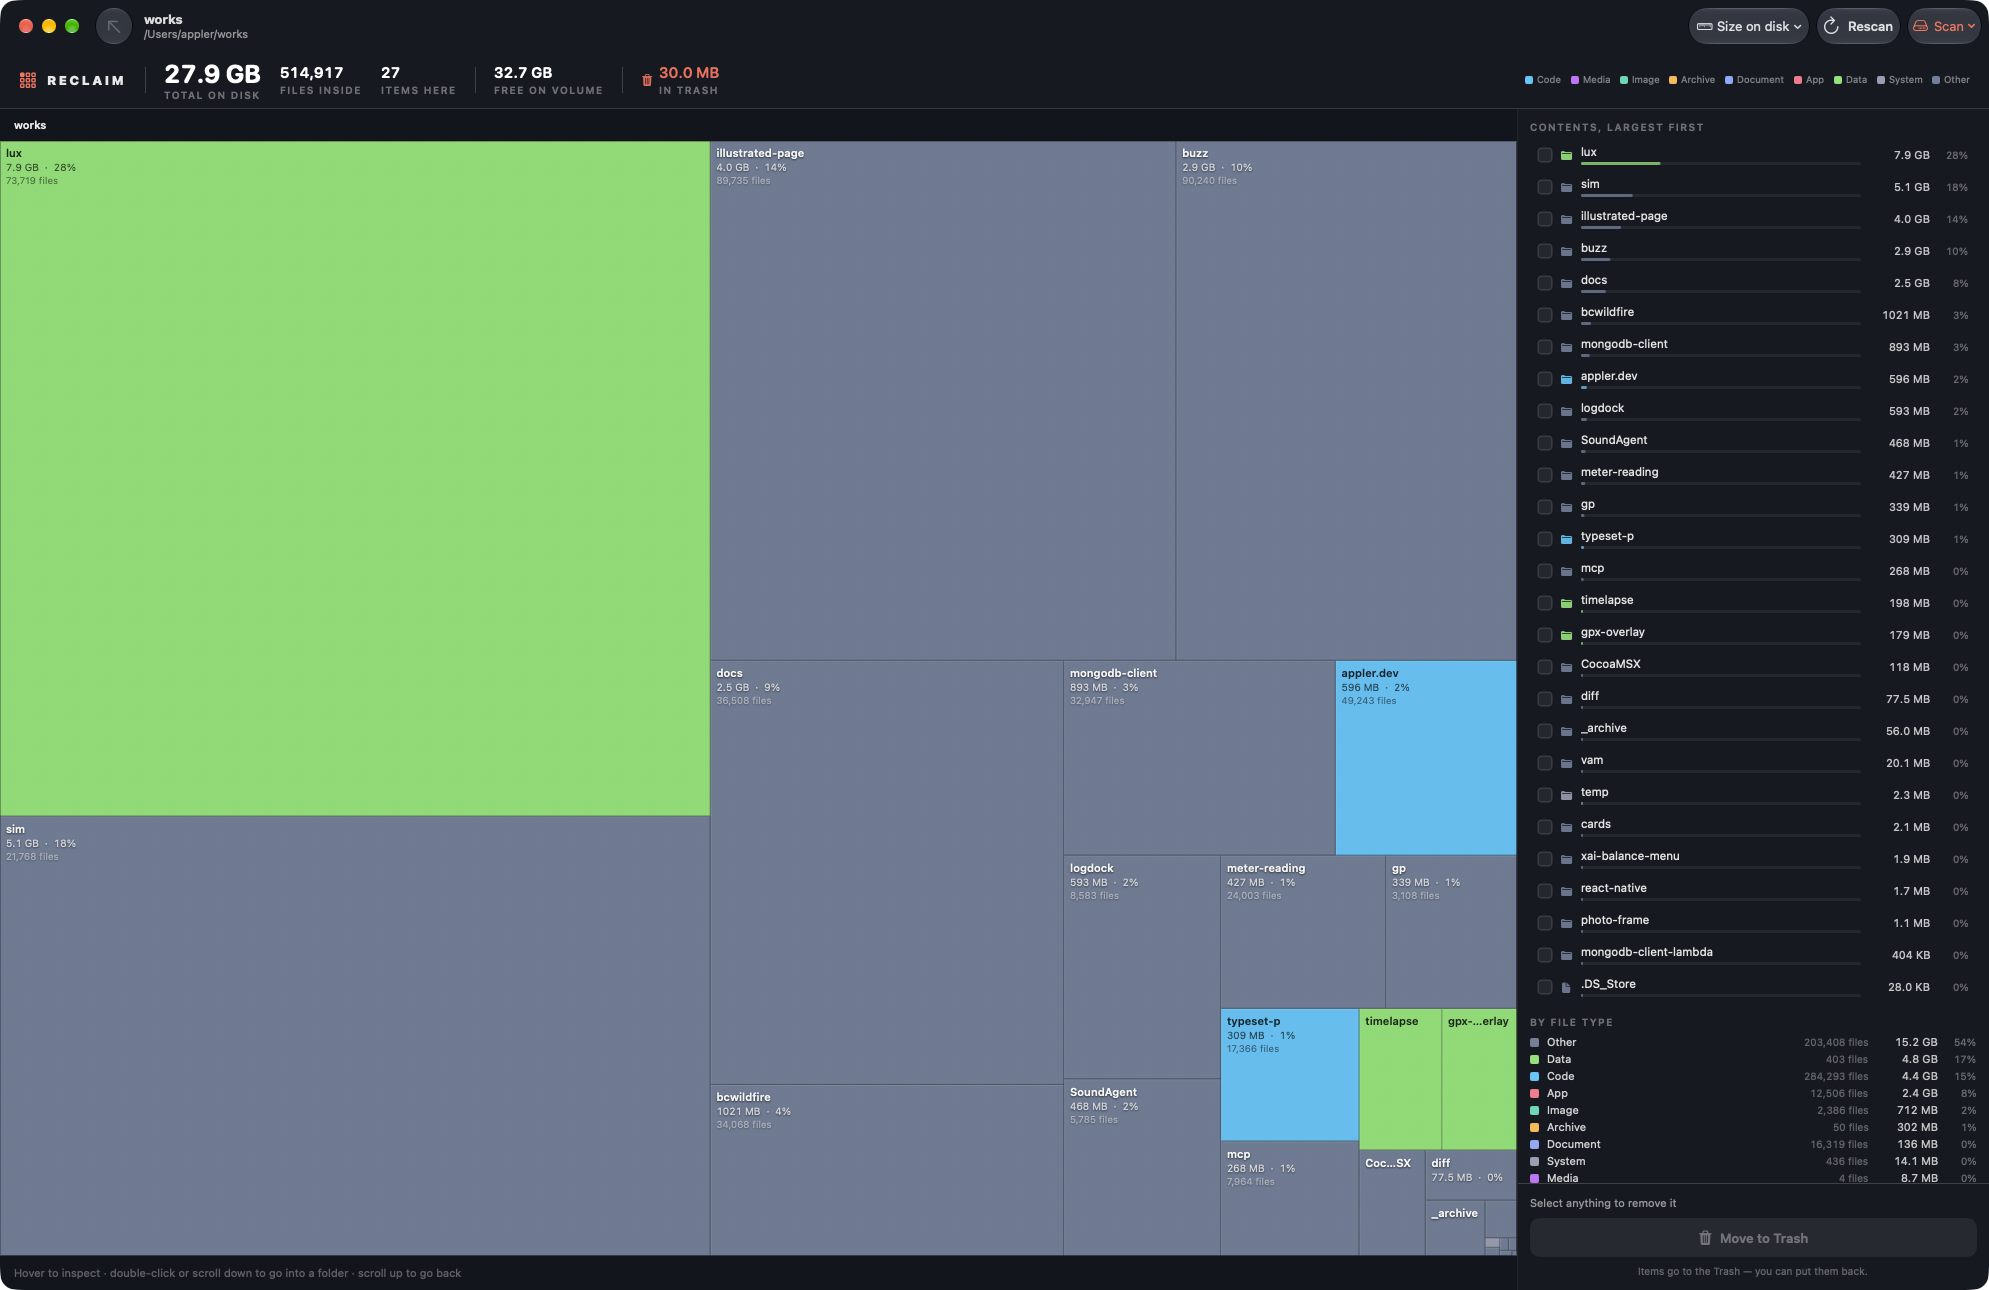
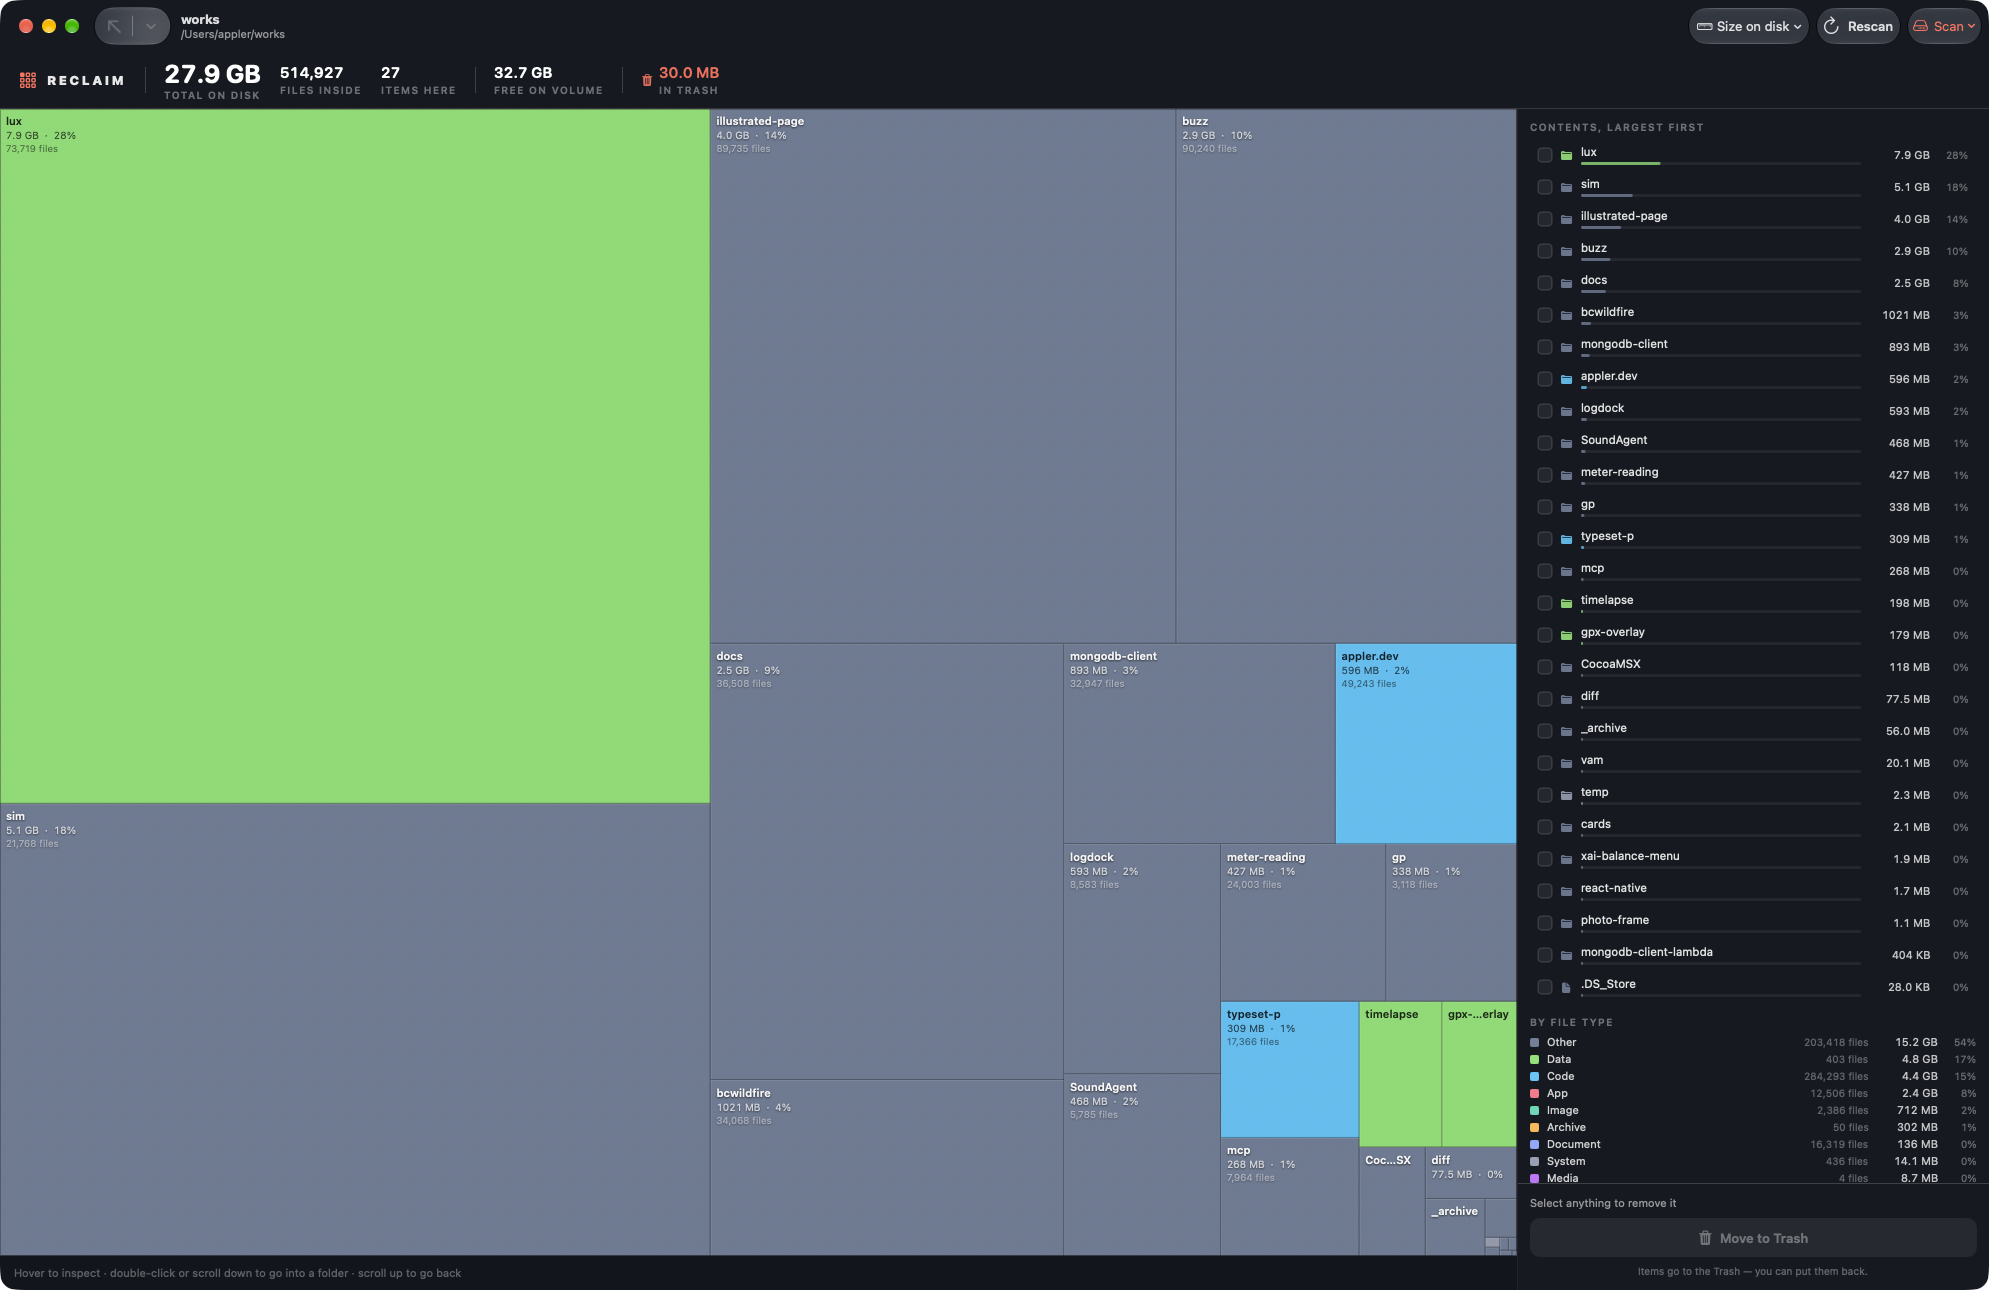
refactor(reclaim): drop the breadcrumb bar and the legend strip
Both had been made redundant by earlier moves. The breadcrumb showed the folder
in view, which the title bar now spells out, and at the scan root it held nothing
but the name already in the title. The colour legend repeated the sidebar's "by
file type" list, which names each colour rather than just showing it.

What the breadcrumb still did — jumping several levels at once — moves into the
Up control: clicking it goes up one, holding it lists the trail back to the scan
root. That leaves two rows of chrome above the map instead of three, and the map
starts about 70pt higher.

diff --git a/Sources/DiskMap/ContentView.swift b/Sources/DiskMap/ContentView.swift
@@ -51,14 +51,32 @@ struct ContentView: View {
         // menu when several scans are open.
         .navigationTitle(windowTitle)
         .navigationSubtitle(windowSubtitle)
+        // The ⌘↑ menu command posts this; it used to be handled by the breadcrumb row.
+        .onReceive(NotificationCenter.default.publisher(for: .reclaimNavigateUp)) { _ in
+            model.zoomOut()
+        }
         .preferredColorScheme(.dark)
         .toolbar {
             ToolbarItem(placement: .navigation) {
-                Button { model.zoomOut() } label: {
+                // Click goes up one level; holding it offers the whole trail,
+                // which is what the breadcrumb bar used to be for.
+                Menu {
+                    ForEach(Array(model.breadcrumb.dropLast().enumerated().reversed()),
+                            id: \.offset) { index, node in
+                        Button {
+                            model.show(node)
+                        } label: {
+                            Label(index == 0 ? model.scanTargetName : node.name,
+                                  systemImage: index == 0 ? "externaldrive" : "folder")
+                        }
+                    }
+                } label: {
                     Label("Up", systemImage: "arrow.up.left")
+                } primaryAction: {
+                    model.zoomOut()
                 }
                 .disabled(model.zoomRoot == nil || model.zoomRoot === model.scanRoot)
-                .help("Go to the enclosing folder (⌘↑)")
+                .help("Go to the enclosing folder (⌘↑). Hold to jump further up.")
             }
             ToolbarItemGroup(placement: .primaryAction) {
                 if model.phase == .ready {
@@ -257,8 +275,6 @@ private struct HeaderBar: View {
             }
 
             Spacer(minLength: 12)
-
-            if model.phase == .ready { LegendStrip() }
         }
         .padding(.horizontal, 18)
         .frame(height: 56)
@@ -283,59 +299,11 @@ private struct MapPane: View {
 
     var body: some View {
         VStack(spacing: 0) {
-            HStack(spacing: 6) {
-                ScrollView(.horizontal, showsIndicators: false) {
-                    HStack(spacing: 4) {
-                        ForEach(Array(model.breadcrumb.enumerated()), id: \.offset) { index, node in
-                            if index > 0 {
-                                Image(systemName: "chevron.right")
-                                    .font(.system(size: 8, weight: .bold))
-                                    .foregroundStyle(.white.opacity(0.25))
-                            }
-                            Button { model.show(node) } label: {
-                                Text(index == 0 ? model.scanTargetName : node.name)
-                                    .font(.system(size: 11, weight: index == model.breadcrumb.count - 1 ? .semibold : .regular))
-                                    .foregroundStyle(.white.opacity(index == model.breadcrumb.count - 1 ? 0.92 : 0.5))
-                            }
-                            .buttonStyle(.plain)
-                        }
-                    }
-                }
-                Spacer(minLength: 8)
-            }
-            .padding(.horizontal, 14)
-            .frame(height: 32)
-            .background(Color.panel.opacity(0.6))
-            .animation(.snappy(duration: 0.2), value: model.zoomRoot?.objectID)
-
             TreemapRepresentable(model: model, isResizing: isResizing)
                 .background(Color.ink)
                 .clipped()
 
             HoverBar(model: model, hover: model.hover)
-        }
-        .onReceive(NotificationCenter.default.publisher(for: .reclaimNavigateUp)) { _ in
-            model.zoomOut()
-        }
-    }
-}
-
-private struct LegendStrip: View {
-    private let families: [FileFamily] = [.code, .media, .image, .archive,
-                                          .document, .app, .data, .system, .other]
-
-    var body: some View {
-        HStack(spacing: 9) {
-            ForEach(families, id: \.self) { family in
-                HStack(spacing: 4) {
-                    RoundedRectangle(cornerRadius: 2)
-                        .fill(Color(nsColor: family.color))
-                        .frame(width: 8, height: 8)
-                    Text(family.label)
-                        .font(.system(size: 9.5))
-                        .foregroundStyle(.white.opacity(0.45))
-                }
-            }
         }
     }
 }
